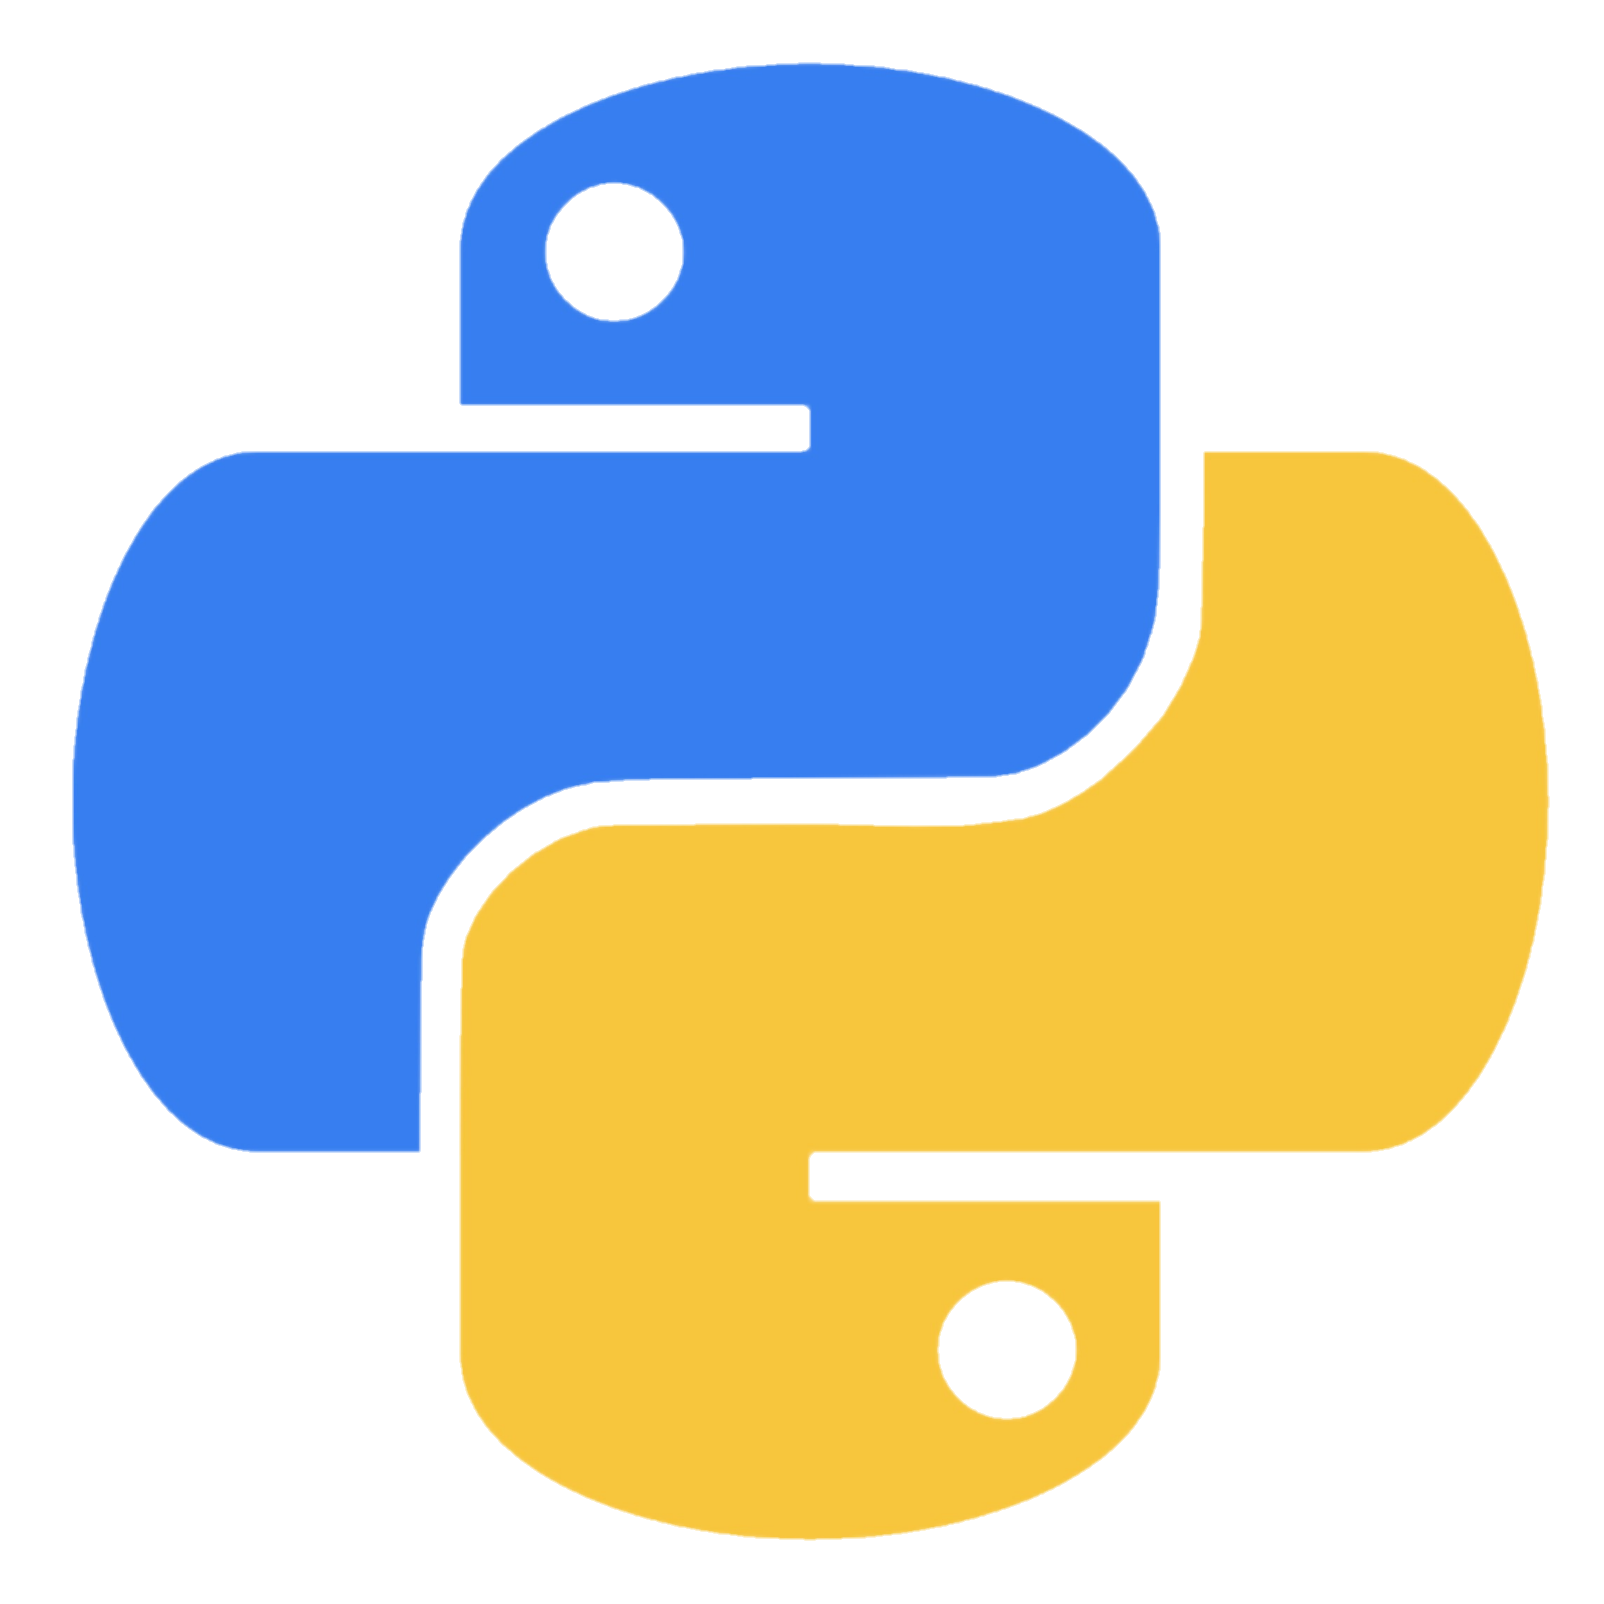
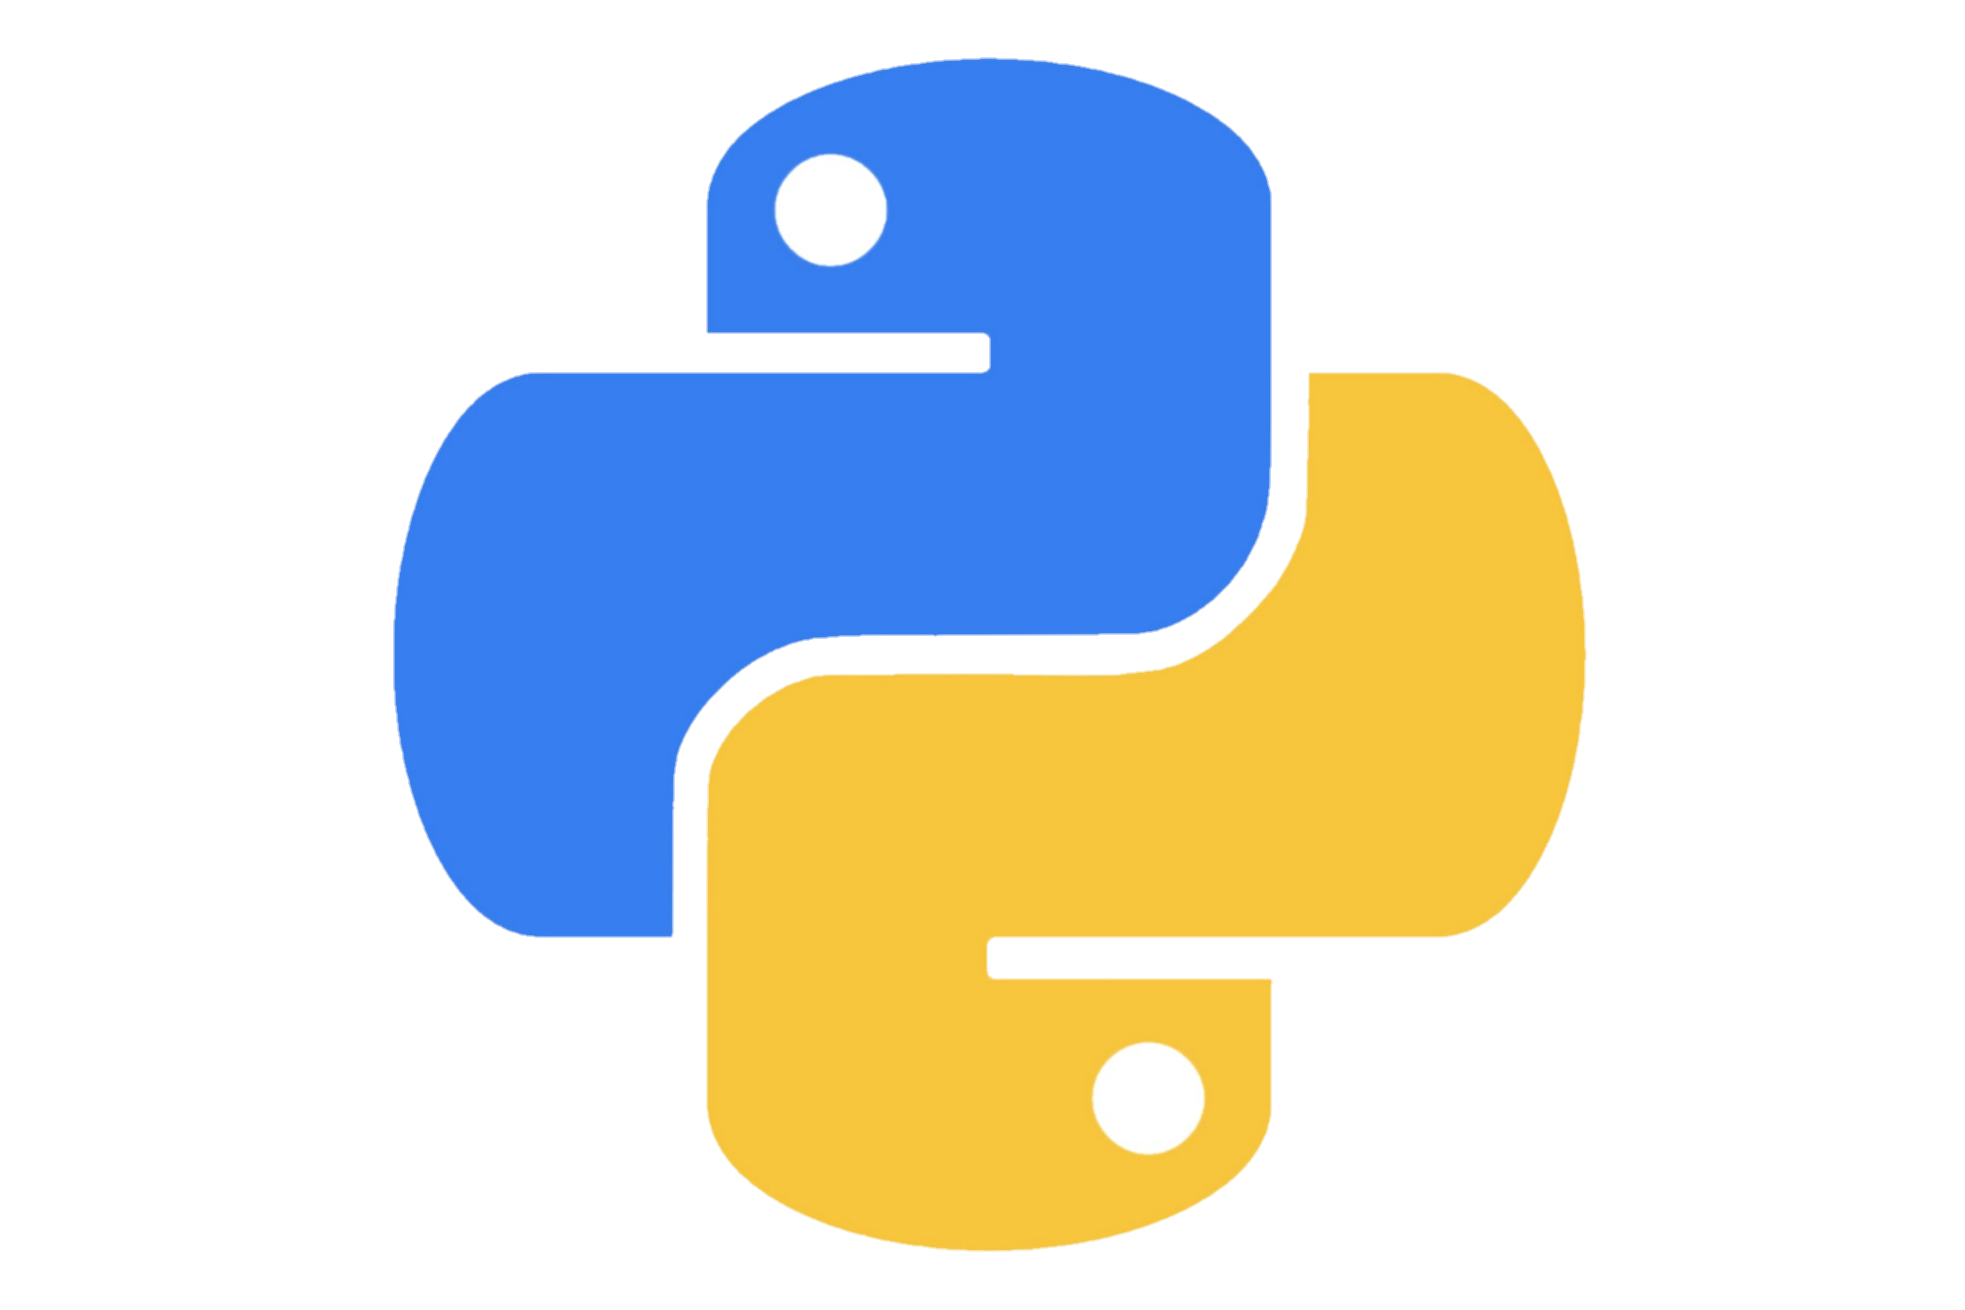
Atualização da terceira versão.

Changed region(s): [[0.0312, 0.0305, 0.9663, 0.9771]]

diff --git a/index.html b/index.html
@@ -7,6 +7,7 @@
   <title>Edson Isaac</title>
   <link rel="stylesheet" href="css/estilos.css">
   <link href="https://fonts.googleapis.com/css2?family=Baloo+2&family=Source+Code+Pro&display=swap" rel="stylesheet"> 
+  <link rel="shortcut icon" href="img/batata.png"> 
 </head>
 
 <body>
@@ -29,15 +30,15 @@
     <div class="imagens">
       <figure>
         <img class="img-portfolio1" src="img/ccpp.png" alt="C/C++">
-        <figcaption>C/C++</figcaption>
+        <figcaption><a href="#">C/C++</a></figcaption>
       </figure>
       <figure>
         <img class="img-portfolio2" src="img/python.png" alt=">Python">
-        <figcaption>Python</figcaption>
+        <figcaption><a href="#">Python</a></figcaption>
       </figure>
       <figure>
         <img class="img-portfolio3" src="img/htmlcss.png" alt="Html/CSS">
-        <figcaption>Html/CSS</figcaption>
+        <figcaption><a href="https://github.com/Edssaac/edd">Html/CSS</a></figcaption>
       </figure>
     </div>
   </section>

diff --git a/css/estilos.css b/css/estilos.css
@@ -102,8 +102,8 @@ section {
   width: 200.5px;
 }
 .img-portfolio2 {
-  height: 100.25px;
-  width: 100.25px;
+  height: 133.625px;
+  width: 200.5px;
 }
 .img-portfolio3 {
   height: 133.625px;
